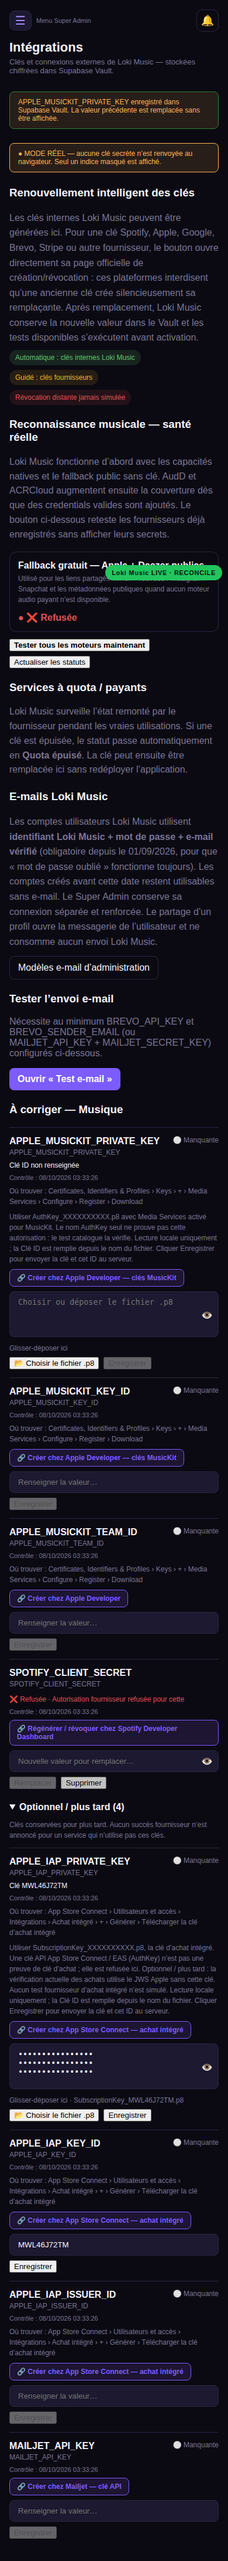
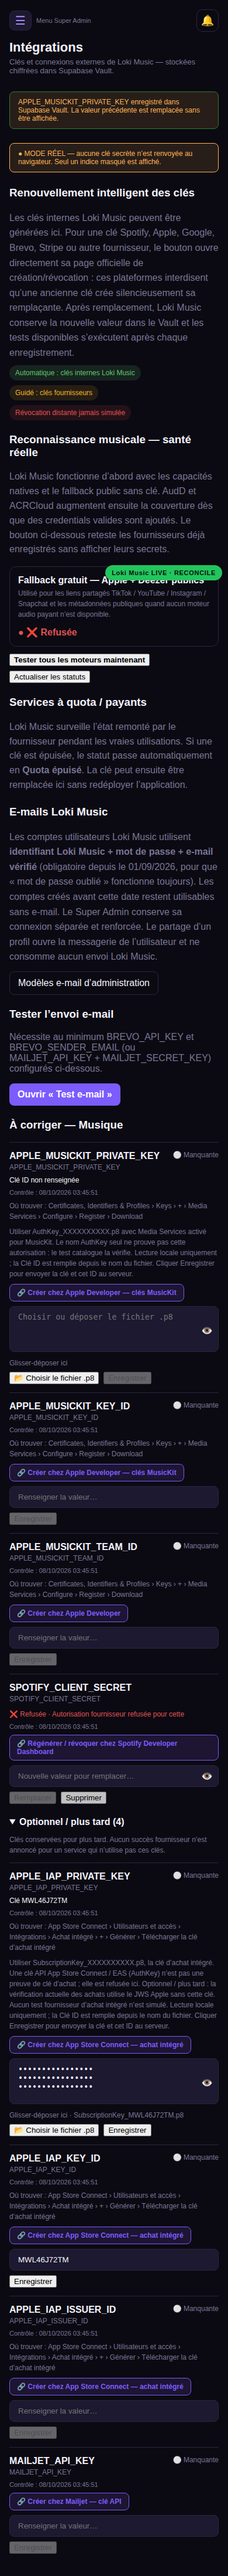
Sécuriser les rotations Apple et préserver les reconnaissances exactes

Changed region(s): [[0.0308, 0.0, 0.9538, 0.9961]]

diff --git a/supabase/functions/keep-admin-control/index.ts b/supabase/functions/keep-admin-control/index.ts
@@ -618,23 +618,23 @@ Deno.serve(async (req) => {
         }
       }
       const valueHint = importedKeyId ? `Clé ${importedKeyId}` : hint(value);
-      const { error } = await admin.rpc("service_set_integration_secret", {
-        p_key: key,
-        p_category: meta.category,
-        p_value: value,
-        p_hint: valueHint,
-        p_updated_by: actor.id,
-      });
-      if (error) throw error;
       if (applePrivateKey && importedKeyId) {
-        const { error: keyIdError } = await admin.rpc("service_set_integration_secret", {
-          p_key: keyIdField,
-          p_category: CATALOG[keyIdField].category,
-          p_value: importedKeyId,
-          p_hint: hint(importedKeyId),
+        const { error } = await admin.rpc("service_set_apple_integration_secret", {
+          p_key: key,
+          p_value: value,
+          p_key_id: importedKeyId,
           p_updated_by: actor.id,
         });
-        if (keyIdError) throw new Error("Clé enregistrée, KEY_ID non enregistré");
+        if (error) throw new Error("Clé et KEY_ID non enregistrés");
+      } else {
+        const { error } = await admin.rpc("service_set_integration_secret", {
+          p_key: key,
+          p_category: meta.category,
+          p_value: value,
+          p_hint: valueHint,
+          p_updated_by: actor.id,
+        });
+        if (error) throw error;
       }
       if (key === "AUDD_API_KEY" && providerValidation) {
         await setRecognitionRuntimeStatus("AUDD_API_KEY", providerValidation.status, providerValidation.message);

diff --git a/supabase/functions/keep-music-keyless-source/index.ts b/supabase/functions/keep-music-keyless-source/index.ts
@@ -498,13 +498,27 @@ function sameSong(a: CatalogTrack, b: CatalogTrack) {
 }
 
 async function findCatalogMatches(track: CatalogTrack): Promise<CatalogTrack[]> {
-  const query = `${track.artist} ${track.title}`;
-  const [apple, deezer, spotify] = await Promise.all([
-    track.source === "apple" ? [] : searchApple(query),
-    track.source === "deezer" ? [] : searchDeezer(query),
-    track.source === "spotify" ? [] : searchSpotify(track.isrc ? `isrc:${track.isrc}` : query),
-  ]);
-  return [...apple, ...deezer, ...spotify].filter((item) => sameSong(track, item));
+  let timer: ReturnType<typeof setTimeout> | undefined;
+  try {
+    const query = `${track.artist} ${track.title}`;
+    const matches = Promise.all([
+      track.source === "apple" ? [] : searchApple(query),
+      track.source === "deezer" ? [] : searchDeezer(query),
+      track.source === "spotify" ? [] : searchSpotify(track.isrc ? `isrc:${track.isrc}` : query),
+    ]).then(([apple, deezer, spotify]) =>
+      [...apple, ...deezer, ...spotify].filter((item) => sameSong(track, item)));
+    // Une identité exacte ne doit pas attendre les catalogues secondaires.
+    return await Promise.race([
+      matches,
+      new Promise<CatalogTrack[]>((resolve) => {
+        timer = setTimeout(() => resolve([]), 2000);
+      }),
+    ]);
+  } catch {
+    return [];
+  } finally {
+    if (timer !== undefined) clearTimeout(timer);
+  }
 }
 
 // AJOUT P0 (coordination 31/08/2026) : quand l'URL fournisseur est valide et

diff --git a/packages/admin/pages/integrations.tsx b/packages/admin/pages/integrations.tsx
@@ -274,7 +274,7 @@ export default function Integrations() {
       <div className="card" style={{ marginBottom: 22 }}>
         <h3 style={{ marginTop: 0 }}>Renouvellement intelligent des clés</h3>
         <p style={{ color: 'var(--text-muted)', marginBottom: 8, lineHeight: 1.6 }}>
-          Les clés internes Loki Music peuvent être générées ici. Pour une clé Spotify, Apple, Google, Brevo, Stripe ou autre fournisseur, le bouton ouvre directement sa page officielle de création/révocation : ces plateformes interdisent qu’une ancienne clé crée silencieusement sa remplaçante. Après remplacement, Loki Music conserve la nouvelle valeur dans le Vault et les tests disponibles s’exécutent avant activation.
+          Les clés internes Loki Music peuvent être générées ici. Pour une clé Spotify, Apple, Google, Brevo, Stripe ou autre fournisseur, le bouton ouvre directement sa page officielle de création/révocation : ces plateformes interdisent qu’une ancienne clé crée silencieusement sa remplaçante. Après remplacement, Loki Music conserve la nouvelle valeur dans le Vault et les tests disponibles s’exécutent après chaque enregistrement.
         </p>
         <div style={{ display: 'flex', gap: 8, flexWrap: 'wrap', fontSize: 12 }}>
           <span style={{ padding: '6px 10px', borderRadius: 999, background: 'rgba(98,196,111,.14)', color: '#62c46f' }}>Automatique : clés internes Loki Music</span>

diff --git a/scripts/__tests__/integration-checks.test.ts b/scripts/__tests__/integration-checks.test.ts
@@ -25,8 +25,9 @@ test("les appels catalogue, traduction et expéditeur doivent réellement réuss
   globalThis.fetch = async (input) => {
     const url = String(input);
     urls.push(url);
-    if (url.includes("brevo.com")) return Response.json({ senders: [{ email: "fixture", active: true }] });
-    if (url.includes("translation.googleapis.com")) return Response.json({ data: { translations: [{ translatedText: "Hello" }] } });
+    const host = new URL(url).hostname;
+    if (host === "api.brevo.com") return Response.json({ senders: [{ email: "fixture", active: true }] });
+    if (host === "translation.googleapis.com") return Response.json({ data: { translations: [{ translatedText: "Hello" }] } });
     return Response.json({});
   };
   const result = await checkIntegrations(deps);

diff --git a/PROJECT_STATE.md b/PROJECT_STATE.md
@@ -31,10 +31,10 @@ significatif.
 ## 1. État actuel
 
 <!-- AUTO:GIT-STATE:START -->
-- Régénéré le : 2026-10-08T03:34:34.324Z
+- Régénéré le : 2026-10-08T03:48:48.895Z
 - Branche : `copilot/super-admin-cls-bouton-fichier-p8`
-- Dernier commit : `5d61920` (5d61920b1c0267d5ca07b01bb6757b9b26bc3e34) — Initial plan
-- Date du dernier commit : 2026-10-08T03:05:25Z
+- Dernier commit : `509fc7f` (509fc7fa4903706ed44443c335dd5ce56c7d2fa0) — Brancher les catalogues et automatiser la gestion des clés p8
+- Date du dernier commit : 2026-10-08T03:35:06Z
 - Working tree : ⚠ modifications non commitées présentes
 <!-- AUTO:GIT-STATE:END -->
 
@@ -122,6 +122,7 @@ dernière refonte majeure et doit être traité comme « à confirmer ».
 ## 3. Dernières modifications (10 derniers commits)
 
 <!-- AUTO:RECENT-COMMITS:START -->
+- `509fc7f` (2026-10-08, copilot-swe-agent[bot]) — Brancher les catalogues et automatiser la gestion des clés p8
 - `5d61920` (2026-10-08, copilot-swe-agent[bot]) — Initial plan
 - `d7b0910` (2026-10-05, adelkhatra-bit) — Update checkout action reference in workflow
 <!-- AUTO:RECENT-COMMITS:END -->
@@ -135,6 +136,7 @@ agent) et messages des sessions de chat (non versionnés).
 
 - **Issue #55 — Clés Super Admin (08/10/2026)** : Apple Music/Spotify branchés au catalogue existant via le Vault, import `.p8` local et contrôles automatiques ajoutés. Déploiement des fonctions modifiées/nouvelles puis test Apple `/v1/catalog/fr/search` HTTP 200 à confirmer avec une session autorisée. Dans ce sandbox, le domaine Supabase ne se résout pas ; aucun succès fournisseur réel revendiqué. `BRANCH_SOURCE_OF_TRUTH.json` absent ; le garde de branche refuse la branche PR, les invariants du contenu passent hors variable CI de branche.
 - **Base PR #56 incorrecte** : GitHub confirme `main` comme base automatique, alors que #55 exige `reconcile/claude-main-20260825`. Recibler puis revalider sur la branche produit avant intégration ; ne pas fusionner vers `main`.
+- **Déploiement #55** : appliquer `20261008033000_atomic_apple_integration_secrets.sql` avant les fonctions et le client. Assertions ciblées PostgreSQL 16 validées (rollback complet, verrou transactionnel, accès service uniquement ; setter Vault simulé), mais suite SQL globale bloquée par l’extension locale `pg_cron` absente dans une migration préexistante. Aucune application sur Supabase depuis cette session.
 - **Test device en attente (Adel)** : préchargement audio Battle (latence),
   correctif micro/preview, anti-Shazam (« lance Shazam pendant la preview »).
   Aucun de ces tests n'a pu être fait depuis cet environnement (pas de

diff --git a/AGENT_MESSAGES.md b/AGENT_MESSAGES.md
@@ -1200,3 +1200,6 @@ Issue 55 : audit puis branchement Apple Music/Spotify, import p8 et vérificatio
 ## [2026-10-08T03:34:34.360Z] codex
 
 Issue 55 : clés Apple/Spotify catalogue et client Supabase, import p8 partagé, tests fournisseur automatiques et contrat CI ajoutés. Validations locales ciblées, typechecks admin/mobile/music, exports et rendu Chrome 390/1440 avec reload vérifiés. Captures docs/screenshots/super-admin-keys-390.png et -1440.png, fournisseurs simulés seulement. TEST MODE RÉEL Apple bloqué par DNS Supabase (HTTP 000). PR #56 automatiquement basée sur main : recibler reconcile/claude-main-20260825 puis revalider avant fusion. Aucun déploiement. SDK Shazam Android absent : endpoint/helper prêts uniquement.
+## [2026-10-08T03:49:50.769Z] codex
+
+Complément revue #55 : rotation Apple désormais via un RPC transactionnel sérialisé, migration 20261008033000 à appliquer AVANT keep-admin-control. Assertions rollback/verrou/permissions vérifiées contre PostgreSQL 16 réel avec setter Vault simulé ; suite SQL globale bloquée par pg_cron absent (préexistant). Enrichissement direct du catalogue borné à 2 s conservant le résultat primaire (9 tests pipeline validés par l’agent). Hôtes des mocks comparés exactement après les alertes CodeQL de tests. Deux problèmes de revue relus et résolus.
